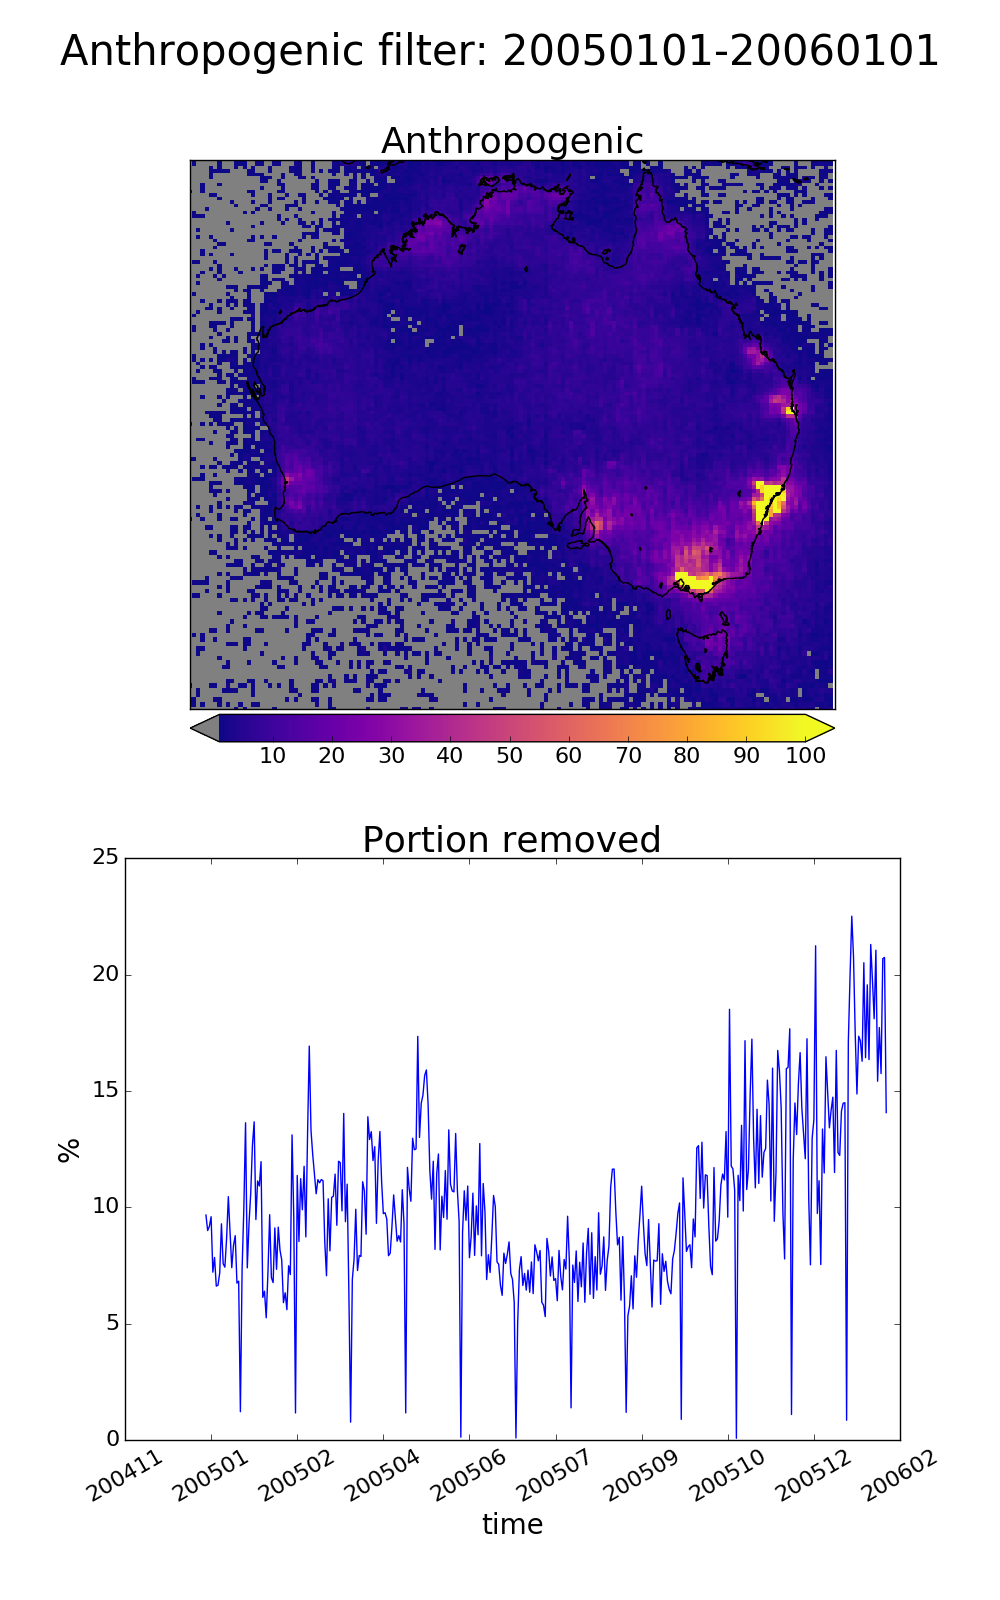
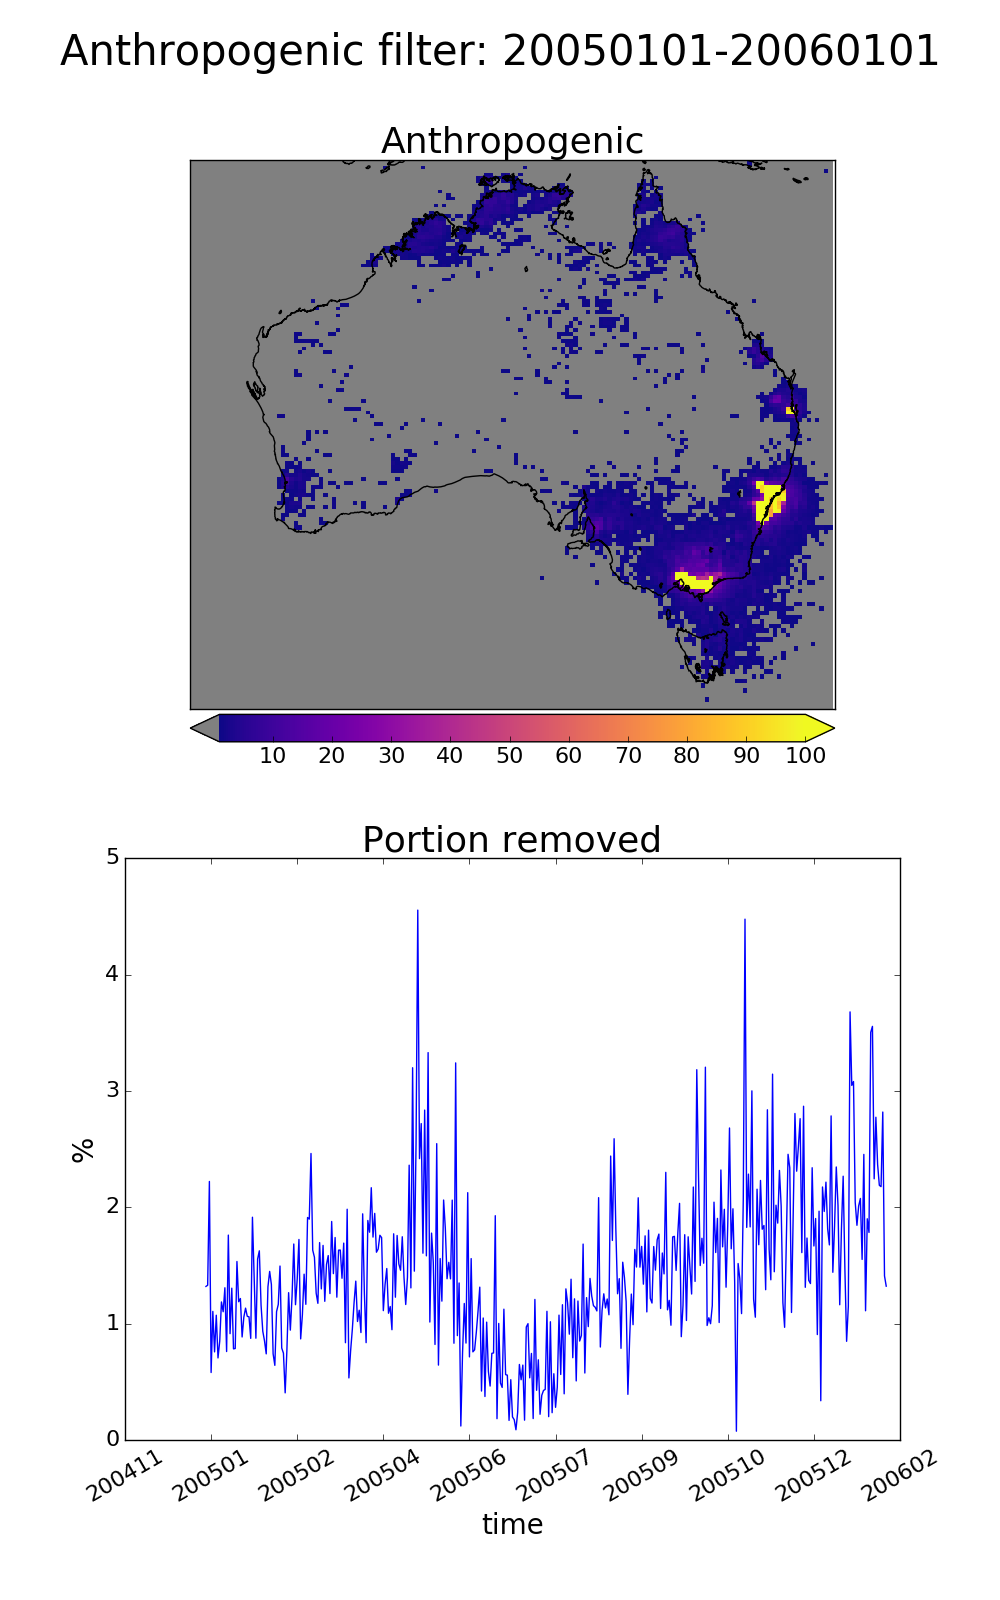
MUMBA reading into campaign.py, Updated filter plots

diff --git a/classes/campaign.py b/classes/campaign.py
@@ -42,6 +42,8 @@ class campaign:
                             'isop':{'units':'ppb','DL':np.NaN},
                             'ozone':{'units':'ppb','DL':np.NaN},
                            }
+        self.height    = 0# measurement height from ground level (m)
+        self.elevation = 0# ground level above sea level (m)
 
     def read_SPS(self, number=1):
         '''
@@ -96,23 +98,51 @@ class campaign:
             Reads MUMBA campaign data isoprene, ozone, and hcho
             Code taken from Jenny's READ_MUMBA method
         '''
-        # Read isop file
+
+        # Read files with desired data, resampled to 60 minute means
         isop_df=fio.read_mumba_var('ISOP')
-        hcho_df=fio.read_mumba_var('H2CO')
+        hcho_df=fio.read_mumba_var('CH2O')
         o3_df  =fio.read_mumba_var('O3')
 
-    def plot_series(self,title=None,pname=None):
+        # LATITUDE: -34.397200 * LONGITUDE: 150.899600
+        self.lat        = -34.3972
+        self.lon        = 150.8996
+        self.height     = 10 # Metres off ground
+        self.elevation  = 30 # Metres
+
+        # dates
+        dates_isop=[ts.to_pydatetime() for ts in isop_df.index]
+
+        self.dates=dates_isop # UTC+10
+
+        self.isop                   = np.array(isop_df['C5H8 [ppbv]'])
+        self.attrs['isop']['units'] = 'ppbv'
+
+
+        self.hcho                   = np.array(hcho_df['HCHO [ppbv]'])
+        self.attrs['hcho']['units'] = 'ppbv'
+
+        # ignore last 16 o3 measurements as they occur without matching hcho and isop measurements.
+        self.ozone                  = np.array(o3_df['O3 [ppbv] (mean of hourly O3 concentration)'])[0:-16]
+        self.attrs['ozone']['units']= 'ppbv'
+        self.attrs['ozone']['DL']   = 0.5
+
+
+    def plot_series(self,title=None,pname=None,dfmt='%d %b'):
 
         dates=self.dates
 
         for key,c in zip(['hcho','isop'],['orange','green']):
             data=getattr(self,key)
-            dlim=getattr(self,key+'_detection_limit')
+            dlim=self.attrs[key]['DL']
             #plot_time_series(datetimes,values,ylabel=None,xlabel=None, pname=None, legend=False, title=None, xtickrot=30, dfmt='%Y%m', **pltargs)
-            pp.plot_time_series(dates, data, dfmt='%d %b', label=key,color=c)
-            plt.plot([dates[0],dates[-1]], [dlim,dlim], color=c, linestyle='--')
+            # Plot time series
+            pp.plot_time_series(dates, data, dfmt=dfmt, label=key, color=c)
+            # add detection limit
+            if not np.isnan(dlim):
+                plt.plot([dates[0],dates[-1]], [dlim,dlim], color=c, linestyle='--')
 
-        plt.ylabel('[%s]'%self.hcho_units)
+        plt.ylabel('[%s]'%self.attrs['hcho']['units'])
         plt.title(title)
         # 3 xticks:
         plt.gca().xaxis.set_ticks([dates[0],dates[len(dates)//2],dates[-1]])

diff --git a/localtests.py b/localtests.py
@@ -56,49 +56,11 @@ start1=timeit.default_timer()
 ### DO STUFFS
 ##########
 
-z=np.zeros([5,6])
-z[0,4]=1
-z[2,2]=1
-z[4,5]=1
-za = util.set_adjacent_to_true(z).astype(int)
-print(z)
-print(za)
 
-assert za[0,3]+za[0,4]+za[0,5]+za[1,3]+za[1,4]+za[1,5] == 6, "top edge doesn't work as expected"
-assert za[1,1]+za[1,2]+za[1,3]+za[2,1]+za[2,3]+za[2,3]+za[3,1]+za[3,2]+za[3,3] == 9, "middle doesn't work as expected"
-assert za[3,4]+za[3,5]+za[4,4]+za[4,5] == 4, "bottom corner doesn't work as expected"
-assert np.sum(za) == 19-1, "Should be 18 filtered squares" # one overlaps
-
-
-
-
-d0=datetime(2006,1,1)
-dn=datetime(2006,1,31)
-'''
-    masked squares count for fire, masked squares count for anthro
-        time series of pixel counts with and without filtering
-'''
-
-
-
-## Read isop file
-#isop_df=fio.read_mumba_var('ISOP')
-## dates
-##timestamps = list(isop_df.index)
-#dates=[ts.to_pydatetime() for ts in isop_df.index]
-#isop_df.keys()
-#isop_df['C5H8 [ppbv]'].plot()
-##Index(['Height [m]', 'HCHO [ppbv]', 'CH4O [ppbv]', 'Acetonitrile [ppbv]',
-##       'Acetaldehyde [ppbv]', 'Acetone [ppbv]', 'C5H8 [ppbv]',
-##       'Methacrolein + methyl vinyl ketone [ppbv]', 'C6H6 [ppbv]',
-##       'C6H5CH3 [ppbv]', 'C8H10 [ppbv]', 'C9H12 [ppbv]',
-##       'Monoterpenes [ppbv]'],
-##      dtype='object')
-#
-#hcho_df=fio.read_mumba_var('CH2O')
-#o3_df  =fio.read_mumba_var('O3')
-
-
+mumba=campaign()
+mumba.read_mumba()
+mumba.plot_series(title='MUMBA',dfmt='%Y%b%d')
+plt.legend()
 
 ###########
 ### Record and time STUJFFS

diff --git a/tests/utilities_tests.py b/tests/utilities_tests.py
@@ -1,9 +1,32 @@
+import numpy as np
+from classes import omhchorp
+from utilities import utilities as util
+from utilities import plotting as pp
+from utilities import GMAO
+import matplotlib.pyplot as plt
 
 
-def check_resolution_binning():
+def test_adjacent_masking():
+    z=np.zeros([5,6])
+    z[0,4]=1
+    z[2,2]=1
+    z[4,5]=1
+    za = util.set_adjacent_to_true(z).astype(int)
+    print(z)
+    print(za)
+
+    assert za[0,3]+za[0,4]+za[0,5]+za[1,3]+za[1,4]+za[1,5] == 6, "top edge doesn't work as expected"
+    assert za[1,1]+za[1,2]+za[1,3]+za[2,1]+za[2,3]+za[2,3]+za[3,1]+za[3,2]+za[3,3] == 9, "middle doesn't work as expected"
+    assert za[3,4]+za[3,5]+za[4,4]+za[4,5] == 4, "bottom corner doesn't work as expected"
+    assert np.sum(za) == 19-1, "Should be 18 filtered squares" # one overlaps
+
+
+def check_resolution_binning(d0=datetime(2005,1,1),):
     '''
         See what happens when regridding to lower resolution using pixel counts
     '''
+    region=pp.__AUSREGION__
+
     OMHCHORP=omhchorp(day0=d0, ignorePP=False)
     arr_names=['VCC_OMI','gridentries','ppentries','col_uncertainty_OMI','firemask','smokemask','anthromask']
     arrs= [getattr(OMHCHORP,s) for s in arr_names]

diff --git a/tests.py b/tests.py
@@ -1708,7 +1708,7 @@ if __name__ == '__main__':
     ## Also show affect on regions            # Run 23/7/18 (TODO: Update to add table of data)
     #test_filters.test_mask_effects(datetime(2005,1,1),datetime(2006,1,1))
     ## How mnay pixels are filtered out?     # run 23/7/18
-    test_filters.show_mask_filtering(d0,de)
+    test_filters.show_mask_filtering()
     ## look at hcho vs fire
     #test_filters.HCHO_vs_temp_vs_fire()
 

diff --git a/tests/test_filters.py b/tests/test_filters.py
@@ -70,7 +70,7 @@ __colors__ = pp.__subzones_colours__
 ############# Functions #################
 #########################################
 
-def show_mask_filtering(d0=datetime(2006,1,1), dn=datetime(2006,1,31)):
+def show_mask_filtering(d0=datetime(2005,1,1), dn=datetime(2006,1,1)):
     '''
         masked squares count for fire, masked squares count for anthro
             time series of pixel counts with and without filtering
